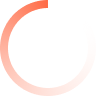
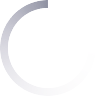
Update

Changed region(s): [[0.0, 0.0, 0.625, 1.0]]

diff --git a/src/qt/res/css/light.css b/src/qt/res/css/light.css
@@ -106,7 +106,7 @@ QComboBox:focus,
 QPlainTextEdit:focus,
 QLineEdit:focus {
     background-color: #E5CFC9;
-    border-color: #FF6B46;
+    border-color: #c7c7c7;
 }
 
 BitcoinAmountField:disabled,
@@ -176,7 +176,7 @@ QCalendarWidget,
 #qt_calendar_monthbutton:hover,
 #qt_calendar_yearbutton:hover {
     background-color: #FFFFFF;
-    color: #FF6B46;
+    color: #979797;
 }
 
 #qt_calendar_prevmonth {
@@ -197,7 +197,7 @@ QCalendarWidget QWidget {
 QCalendarWidget QAbstractItemView:enabled {
     color: #111522;
     selection-background-color: #C2C0C0;
-    selection-color: #FF6B46;
+    selection-color: #d1d1d1;
 }
 
 QCalendarWidget QAbstractItemView:disabled {
@@ -258,7 +258,7 @@ QComboBox::item:alternate {
 
 QComboBox::item:selected {
     background-color: #FFFFFF;
-    border: 1px solid #FF6B46;
+    border: 1px solid #9b9b9b;
     border-radius: 2px;
 }
 
@@ -285,7 +285,7 @@ QHeaderView::section { /* Table Header Sections */
 }
 
 QHeaderView::section:hover { /* Table Header Sections */
-    background-color: #FF6B46;
+    background-color: #8d8d8d;
     color: #111522;
 }
 
@@ -332,12 +332,12 @@ QMenuBar {
 }
 
 QMenuBar::item:hover {
-  color: #B74426;
+  color: #797979;
 }
 
 QMenuBar::item:selected {
   background-color: #EFBDB1;
-  color: #B74426;
+  color: #666666;
 }
 
 /******************************************************
@@ -366,16 +366,16 @@ QPushButton
 ******************************************************/
 
 QPushButton {
-    background-color: #FF6B46;
+    background-color: #8b8b8b;
     color: #111522;
 }
 
 QPushButton:hover {
-    background-color: #D1593A;
+    background-color: #8d8d8d;
 }
 
 QPushButton:pressed {
-    background-color: #FF6B46;
+    background-color: #a5a5a5;
 }
 
 QPushButton:disabled {
@@ -513,7 +513,7 @@ QPushButton - Special case, tabbar replacement buttons
 #btnSignMessage:hover:checked,
 #btnVerifyMessage:hover:checked {
     border: none;
-    color: #B74426;
+    color: #9c9c9c;
 }
 
 /* Debug window buttons */
@@ -553,7 +553,7 @@ QPushButton - Special case, tabbar replacement buttons
 #btnSignMessage:checked,
 #btnVerifyMessage:checked {
     border: none;
-    color: #B74426;
+    color: #a8a8a8;
 }
 
 /******************************************************
@@ -602,10 +602,10 @@ QSlider
 ******************************************************/
 
 QSlider::handle:horizontal {
-	background-color: #B74426;
+	background-color: #a7a7a7;
 }
 QSlider::handle:horizontal:hover {
-	background-color: #FF6B46;
+	background-color: #f0f0f0;
 }
 QSlider::sub-page:horizontal {
 	background-color: #C2C0C0;
@@ -620,7 +620,7 @@ QStatusBar
 
 QStatusBar {
     background-color: #FFFFFF;
-    color: #B74426;
+    color: #9e9e9d;
 }
 
 /******************************************************
@@ -701,7 +701,7 @@ QToolBar > QToolButton:hover:!checked {
 QToolBar > QToolButton:checked {
     background-color: #EFBDB1;
     border: 1px solid #EFBDB1;
-    color: #B74426;
+    color: #a8a8a8;
 }
 
 QToolBar > QToolButton:disabled {
@@ -967,11 +967,11 @@ RPCConsole QTableView {
 }
 
 #rpcAutoCompleter::item:hover {
-    border: 1px solid #FF6B46;
+    border: 1px solid #e0e0e0;
 }
 
 #rpcAutoCompleter::item:selected {
-    border: 1px solid #FF6B46;
+    border: 1px solid #fafafa;
     color: #111522;
 }
 

diff --git a/src/qt/res/css/dark.css b/src/qt/res/css/dark.css
@@ -103,7 +103,7 @@ QComboBox:focus,
 QPlainTextEdit:focus,
 QLineEdit:focus {
     background-color: #111522;
-    border-color: #B45A46;
+    border-color: hsl(0, 0%, 71%);
 }
 
 BitcoinAmountField:disabled,
@@ -255,7 +255,7 @@ QComboBox::item:alternate {
 
 QComboBox::item:selected {
     background-color: #1B1F2C;
-    border: 1px solid #B45A46;
+    border: 1px solid #a7a7a7;
     border-radius: 2px;
 }
 
@@ -278,12 +278,12 @@ QHeaderView
 
 
 QHeaderView::section { /* Table Header Sections */
-  background-color: #B45A46;
+  background-color: #bbbbbb;
   color: #FFFFFF;
 }
 
 QHeaderView::section:hover { /* Table Header Sections */
-    background-color: #FF6B46;
+    background-color: #a3a3a3;
     color: #FFFFFF;
 }
 
@@ -330,12 +330,12 @@ QMenuBar {
 }
 
 QMenuBar::item:hover {
-    color: #FF6B46;
+    color: #c9c9c9;
 }
 
 QMenuBar::item:selected {
     background-color: #111522;
-    color: #FF6B46;
+    color: #7c7c7c;
 }
 
 /******************************************************
@@ -348,7 +348,7 @@ QProgressBar {
 }
 
 QProgressBar::chunk {
-    background-color: #FF6B46;
+    background-color: hsl(234, 67%, 76%);
 }
 
 /******************************************************
@@ -370,7 +370,7 @@ QPushButton {
 }
 
 QPushButton:hover {
-    background-color: #FF6B46;
+    background-color: hsl(0, 0%, 67%);
 }
 
 QPushButton:focus {
@@ -379,7 +379,7 @@ QPushButton:focus {
 }
 
 QPushButton:pressed {
-    background-color: #B45A46;
+    background-color: #bebebe;
 }
 
 QPushButton:disabled {
@@ -517,7 +517,7 @@ QPushButton - Special case, tabbar replacement buttons
 #btnSignMessage:hover:checked,
 #btnVerifyMessage:hover:checked {
     border: none;
-    color: #B45A46;
+    color: #b4b4b4;
 }
 
 /* Debug window buttons */
@@ -558,7 +558,7 @@ QPushButton - Special case, tabbar replacement buttons
 #btnSignMessage:checked,
 #btnVerifyMessage:checked {
     border: none;
-    color: #B45A46;
+    color: #c0c0c0;
 }
 
 /******************************************************
@@ -606,10 +606,10 @@ QSlider
 ******************************************************/
 
 QSlider::handle:horizontal {
-	background-color: #B45A46;
+	background-color: #808080;
 }
 QSlider::handle:horizontal:hover {
-	background-color: #FF6B46;
+	background-color: #cacaca;
 }
 QSlider::sub-page:horizontal {
 	background-color: #C2C0C0;
@@ -703,7 +703,7 @@ QToolBar > QToolButton:hover:!checked {
 QToolBar > QToolButton:checked {
     background-color: #111522;
     border: 1px solid #111522;
-    color: #B45A46;
+    color: #c2c2c2;
 }
 
 QToolBar > QToolButton:disabled {
@@ -1083,7 +1083,7 @@ QScrollBar::handle:horizontal {
 }
 QScrollBar:handle:horizontal:hover,
 QScrollBar:handle:vertical:hover {
-    background-color: #B45A46;
+    background-color: #acacac;
 }
 QScrollBar:handle:horizontal:pressed,
 QScrollBar:handle:vertical:pressed {

diff --git a/src/founder_payment.cpp b/src/founder_payment.cpp
@@ -66,9 +66,9 @@ void FounderPayment::FillFounderPayment(CMutableTransaction& txNew, int nBlockHe
     txoutFounderRet = CTxOut(founderPayment, payee);
     txNew.vout.push_back(txoutFounderRet);
 	if (nBlockHeight < newFounderAddressStartBlock) {
-		LogPrintf("FounderPayment::FillFounderPayment -- Founder payment %lld to %s\n", founderPayment, founderAddress.c_str());
+	//	LogPrintf("FounderPayment::FillFounderPayment -- Founder payment %lld to %s\n", founderPayment, founderAddress.c_str());
 	} else {
-		LogPrintf("FounderPayment::FillFounderPayment -- Founder payment %lld to %s\n", founderPayment, newFounderAddress.c_str());
+	//	LogPrintf("FounderPayment::FillFounderPayment -- Founder payment %lld to %s\n", founderPayment, newFounderAddress.c_str());
 	}
 }
 
